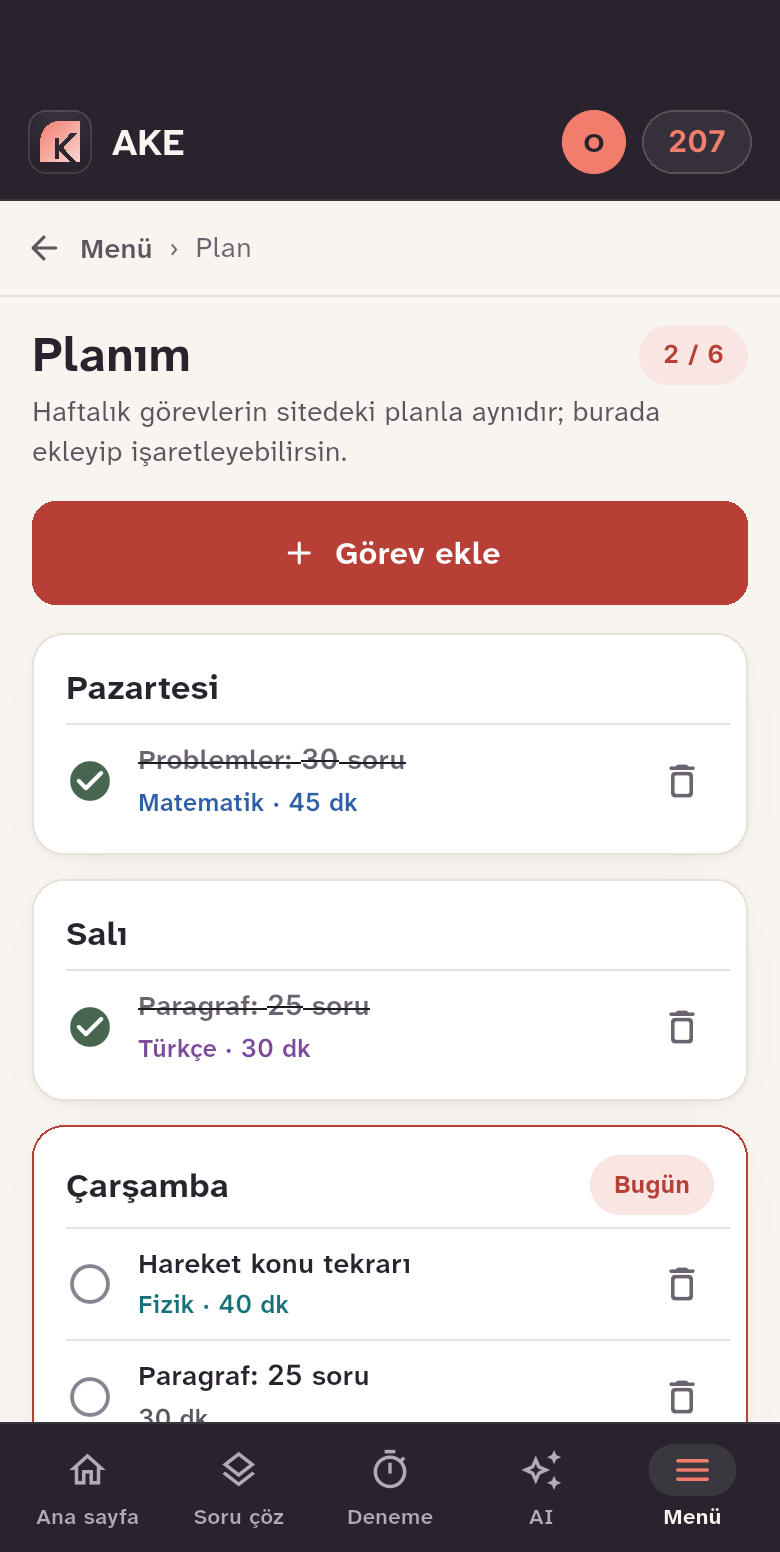
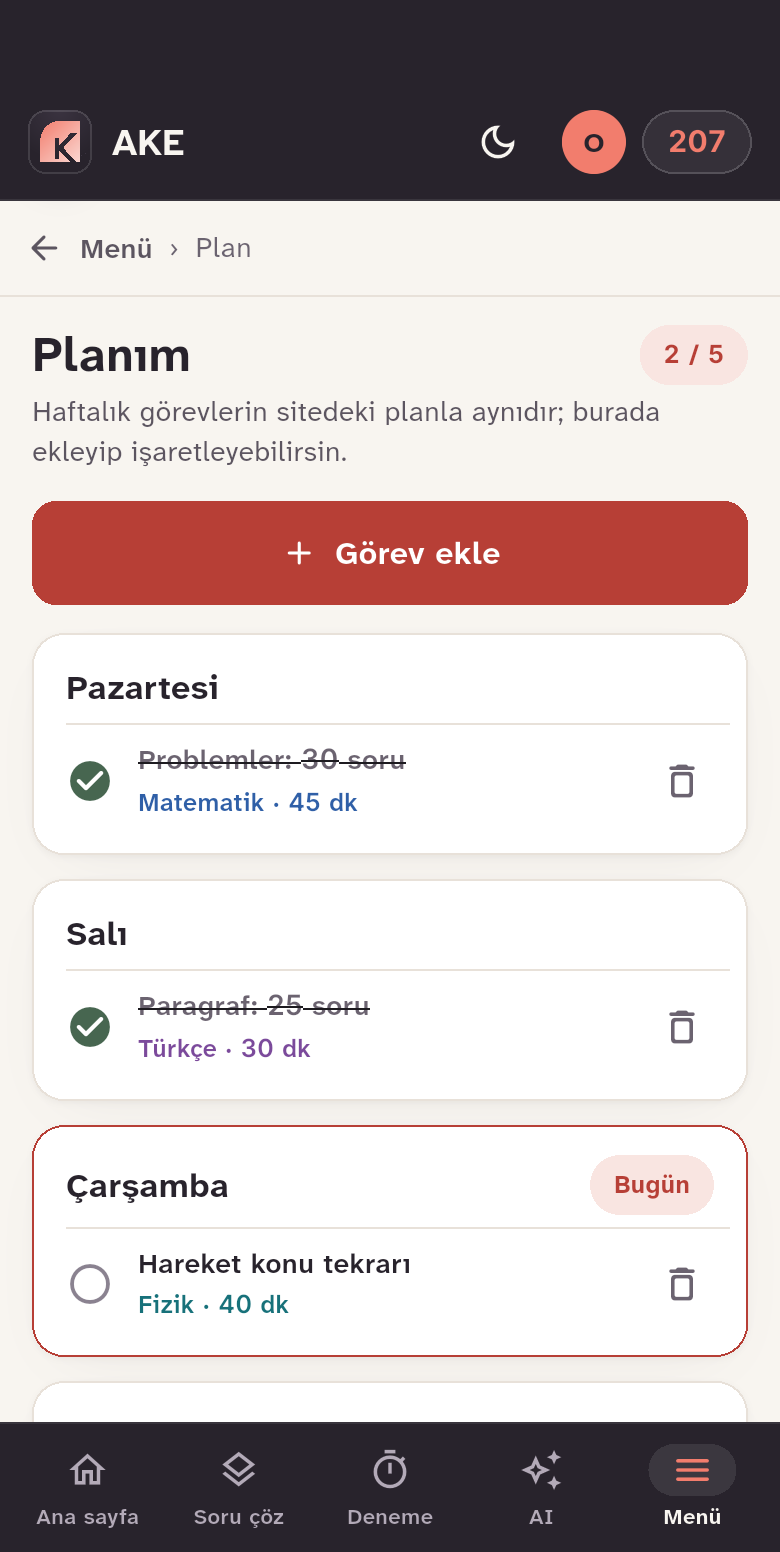
Belgeler: aynı veriyle site/uygulama yan yana görüntüleri, iOS simülatör görüntüleri, açılış ölçümü, Deneme geçmişi notları
Claude-Session: https://claude.ai/code/session_01SDc7dc6b3oPevZA4Myd5sC

Changed region(s): [[0.0923, 0.866, 0.9231, 0.9278], [0.6154, 0.0619, 0.6462, 0.1237], [0.0308, 0.866, 0.0615, 0.8969]]

diff --git a/docs/mobil-gorsel-karsilastirma.md b/docs/mobil-gorsel-karsilastirma.md
@@ -1,40 +1,63 @@
 # Mobil uygulama – görsel karşılaştırma (güncel)
 
-**Hepsi gerçek Android emülatör görüntüsüdür** (Pixel benzeri sdk_gphone64, Android 14, 390 dp; CI'da `flutter drive`). Veri **TEST VERİSİ**: sahte sunucu, gerçek hesap/AI/Production yok. Kanıt dalı: `kanit/pr43-f115713` (320 dp görüntüleri, açılış kayıtları ve ölçüm kayıtları orada).
+Veri **TEST VERİSİDİR**: gerçek hesap, gerçek AI ve Production yok. Android görüntüleri **Android emülatörü** (sdk_gphone64, Android 14, 390 dp; CI'da `flutter drive`), iOS görüntüleri **iOS simülatörü** (iPhone 17 Pro, 402 pt; macOS CI) görüntüsüdür. Gerçek telefon görüntüsü değildir.
+Kanıt dalları: `kanit/pr43-2061b80` (Android: 320/390 dp görüntüleri, açılış kayıtları, ölçüm), `kanit/pr43-ios-2061b80` (iOS simülatör).
 
-## Uygulama ekranları (açık | koyu)
-| Ekran | Açık | Koyu |
-|---|---|---|
-| Ana sayfa | ![](mobil-gorsel/uygulama/10-ana-acik.png) | ![](mobil-gorsel/uygulama/10-ana-koyu.png) |
-| Soru çöz · sınav seçimi | ![](mobil-gorsel/uygulama/20-soru-sec-sinav-acik.png) | ![](mobil-gorsel/uygulama/20-soru-sec-sinav-koyu.png) |
-| Soru çöz · Soru ara | ![](mobil-gorsel/uygulama/41-soru-ara-acik.png) | ![](mobil-gorsel/uygulama/41-soru-ara-koyu.png) |
-| Deneme · başlangıç | ![](mobil-gorsel/uygulama/45-deneme-baslangic-acik.png) | ![](mobil-gorsel/uygulama/45-deneme-baslangic-koyu.png) |
-| Deneme · soru (süre çalışıyor) | ![](mobil-gorsel/uygulama/46-deneme-soru-acik.png) | ![](mobil-gorsel/uygulama/46-deneme-soru-koyu.png) |
-| Deneme · sonuç (net + çözümler) | ![](mobil-gorsel/uygulama/47-deneme-sonuc-acik.png) | ![](mobil-gorsel/uygulama/47-deneme-sonuc-koyu.png) |
-| AI · paket kodu kapısı | ![](mobil-gorsel/uygulama/50-ai-kapi-acik.png) | — (aynı oturumda kod zaten bağlıydı) |
-| AI · sohbet (sahte yanıt) | ![](mobil-gorsel/uygulama/51-ai-sohbet-acik.png) | ![](mobil-gorsel/uygulama/51-ai-sohbet-koyu.png) |
-| Menü | ![](mobil-gorsel/uygulama/60-menu-acik.png) | ![](mobil-gorsel/uygulama/60-menu-koyu.png) |
-| Gelişim | ![](mobil-gorsel/uygulama/61-gelisim-acik.png) | ![](mobil-gorsel/uygulama/61-gelisim-koyu.png) |
-| Plan · görev ekle | ![](mobil-gorsel/uygulama/62-plan-gorev-ekle-acik.png) | ![](mobil-gorsel/uygulama/62-plan-gorev-ekle-koyu.png) |
-| Plan · görevli | ![](mobil-gorsel/uygulama/63-plan-gorevli-acik.png) | ![](mobil-gorsel/uygulama/63-plan-gorevli-koyu.png) |
-| Ayarlar | ![](mobil-gorsel/uygulama/70-ayarlar-acik.png) | ![](mobil-gorsel/uygulama/70-ayarlar-koyu.png) |
-| Ayarlar · hesap silme onayı | ![](mobil-gorsel/uygulama/71-hesap-sil-onay-acik.png) | ![](mobil-gorsel/uygulama/71-hesap-sil-onay-koyu.png) |
+## 1) Site ile uygulama — aynı kullanıcı verisi, aynı ekran durumu, 390
+Sol: **site** (`index.html`, yerel Chrome 390 px, `/api/*` aynı sahte kullanıcı verisiyle yanıtlanır: `mobile/tool/site_goruntu.py`). Sağ: **uygulama** (Android emülatörü 390 dp, sahte sunucu aynı veri: `mobile/integration_test/ekranlar_test.dart`). Birleştirme: `mobile/tool/yan_yana.py`.
 
-## Site ile karşılaştırma — dürüst durum
-- **Aynı veri + aynı ekran durumuyla site görüntüsü bu turda ÜRETİLEMEDİ.** Eski site referansları (`mobil-gorsel/ana.png`, `soru-merkezi.png`, `konu.png`, `gelisim.png`, `plan.png`, `ayarlar.png`) sitenin kendi sahte-API'li yerel çizimidir; verileri uygulamadaki test verisiyle **aynı değil** (ör. site Gelişim referansı boş durumdur). Bu yüzden onları "aynı görsel" diye yan yana koymadım; yalnız başvuru olarak duruyorlar.
-- Eski yan yana tablo kaldırıldı; "Aynı görsel" yer tutucuları yok.
-- Site tarafı için gereken: sitenin veri katmanına aynı sahte kullanıcı verisi verilip 390 px'te aynı ekranların alınması. Bu ayrı bir iş olarak **açık**.
+Ortak test verisi: ad "Test Öğrencisi", alan SAY, hedef 40, sınav 2027‑06‑19; son 7 gün 32/45/0/28/51/38/24 soru (21/33/0/19/40/27/15 doğru); konu başarıları (Sayılar, Problemler, Paragraf, Hareket); 5 plan görevi (2 tamam); paket premium.
 
-## Bilinen görsel/işlev farkları (siteye göre)
+| Ekran | Yan yana (site | uygulama) |
+|---|---|
+| Ana sayfa | ![](mobil-gorsel/yan-yana/10-ana-yan-yana.png) |
+| Soru Merkezi | ![](mobil-gorsel/yan-yana/20-soru-merkezi-yan-yana.png) |
+| Deneme (başlangıç) | ![](mobil-gorsel/yan-yana/45-deneme-yan-yana.png) |
+| AI (henüz mesaj yok) | ![](mobil-gorsel/yan-yana/51-ai-yan-yana.png) |
+| Plan | ![](mobil-gorsel/yan-yana/63-plan-yan-yana.png) |
+| Gelişim | ![](mobil-gorsel/yan-yana/61-gelisim-yan-yana.png) |
+
+Ham site görüntüleri: `mobil-gorsel/site/`. Ham uygulama görüntüleri (açık/koyu): `mobil-gorsel/uygulama/`.
+
+### Bu turda bulunup düzeltilen farklar
+- **Veri biçimi uyuşmazlığı (işlev hatası):** site `profile` ve `plan` belgelerini iç içe saklar (`{_u, plan:{tasks}}`); uygulama düz okuyup yazıyordu. Sitede girilen plan uygulamada görünmez, uygulamadan yazılan site tarafından okunmazdı. Uygulama artık sitenin biçimini okur/yazar (testli; düz belge profil/plan sayılmaz).
+- **Gelişim rakamları:** site "çözülen soru/doğruluk"u günlük sayaçlardan hesaplar, uygulama konulardan hesaplıyordu (146 ↔ 218). Uygulama da günlükten hesaplıyor; görüntüde 218 / %71 / bugün 24 birebir aynı.
+- **AI:** boş sohbet açıklaması, sitedeki 6 başlangıç sorusu (kompakt hap düğmeler; önce tam genişlikte kutulardı) ve kota notu eklendi.
+- **Deneme:** başlangıçta "Bu denemede" özeti (ders, soru, süre, net kuralı) ve **Son denemelerin** listesi (web + mobil `exams`); "Gelişim'e yazılmaz" notu kaldırıldı çünkü artık yazılıyor.
+- **Üst çubuk:** sitedeki gibi tema düğmesi; **Ana sayfa** selamı sitedeki gibi tam ad.
+- **Plan** görüntüsü sitede olduğu gibi yalnız 5 test görevi varken alınır (görev ekleme ayrı görüntü: `64-plan-gorev-eklendi`).
+
+### Kalan, bilinçli farklar (siteye göre)
 | Alan | Fark |
 |---|---|
-| Alt menü | Site ile aynı: Ana sayfa · Soru çöz · Deneme · AI · Menü. Gelişim/Plan/Ayarlar Menü içinde. |
-| Soru çöz sekmeleri | Konular, Soru ara, Paragraf var. **"ÖSYM tarzı" ve "AI ile üret" yok** (sunucuda karşılığı yok; düğme konmadı). |
-| Deneme | Süreli, ders+soru sayısı seçmeli. **Bölümlü tam TYT/AYT ve canlı deneme yok.** Sonuç Gelişim geçmişine yazılmaz. |
-| Plan | Görev ekle/işaretle/sil/haftayı sıfırla var. **Odak odası yok.** |
+| Düzen | Uygulama mobil sekme düzenidir; piksel kopyası değil. Plan haftalık gün listesidir (sitede "Bugün" + Odak odası). |
+| Deneme | Sitedeki **Oturum (TYT/AYT…) seçimi ve bölüm tablosu yok**: sunucu API'si yalnız ders ve soru sayısı destekler. Bölümlü tam TYT/AYT ve canlı deneme yok. |
+| Soru Merkezi | Sitedeki "ÖSYM tarzı" ve "AI ile üret" sekmeleri yok (sunucuda karşılığı yok; düğme konmadı). |
+| AI | Fotoğraf ekleme ve sesli mod yok. Soru metinleri: sitede kendi statik soru bankası; uygulamada sahte sunucunun 2 örnek sorusu (kullanıcı verisi aynı, soru içeriği aynı değil). |
+| Plan | **Odak odası yok.** |
 | Simgeler | Material simgeleri; sitenin özel simge seti taşınmadı. K amblemi, renkler ve yazı tipi siteyle aynı kaynaktan. |
-| Durum çubuğu | Emülatör görüntülerinde üst şerit boş görünür (sistem durum çubuğu yakalanmıyor). |
+| Durum çubuğu | Emülatör görüntülerinde sistem durum çubuğu yakalanmıyor (üst şerit boş). |
 
-## Açılış animasyonu
-- Tasarım süresi 2,2 sn + 0,25 sn sönme = 2,45 sn (birim testi ≤2,5 sn doğrular). Son kare gerçek K amblemi; "Geç" ilk kareden var; ikinci açılışta oynamaz; "hareketi azalt" açıkken 0 ms.
-- **CI emülatöründe ölçülen gerçek süre 3,2–3,6 sn** (320 dp: 3219 ms, 390 dp: 3569 ms); yazılım GPU'su yüzünden kareler 400–1100 ms. **2,5 sn hedefi emülatörde tutmadı; telefonda akıcılık kanıtlanmadı.**
+## 2) Uygulama ekranları (Android emülatörü, 390 dp)
+Tüm açık/koyu görüntüler `mobil-gorsel/uygulama/` içindedir (giriş → ana → Soru çöz → soru → Soru ara → Deneme → AI → Menü → Gelişim → Plan → Ayarlar → hesap silme onayı).
+
+## 3) iOS simülatörü (iPhone 17 Pro, 402 pt) — çalıştırıldı
+Aynı ekran yürüyüşü (giriş, alt gezinme, ana, Soru çöz, soru çözme, Deneme, AI, Gelişim, Plan, Ayarlar, hesap silme onayı) macOS CI'da simülatörde `flutter drive` ile çalıştı ve geçti (yalnız derleme değil). Açık tema görüntüleri: `mobil-gorsel/ios/`. Örnekler:
+
+| Giriş | Ana | Soru okuma | Deneme sonuç | AI | Gelişim |
+|---|---|---|---|---|---|
+| ![](mobil-gorsel/ios/01-giris-acik.png) | ![](mobil-gorsel/ios/10-ana-acik.png) | ![](mobil-gorsel/ios/30-soru-okuma-acik.png) | ![](mobil-gorsel/ios/47-deneme-sonuc-acik.png) | ![](mobil-gorsel/ios/50b-ai-bos-acik.png) | ![](mobil-gorsel/ios/61-gelisim-acik.png) |
+
+Sınırlar: simülatördür (gerçek iPhone değil); veri sahte sunucudur; imzasız derleme, TestFlight/mağaza yok; iOS'ta açılış süresi ölçülmedi.
+
+## 4) Açılış animasyonu
+- Tasarım süresi **2,45 sn → 2,15 sn** (1,9 sn animasyon + 0,25 sn sönme; birim testi ≤2,5 sn). Son kare gerçek K amblemi; "Geç" ilk kareden itibaren var; ikinci açılışta oynamaz; "hareketi azalt" açıkken 0 ms (CI'da doğrulandı: `neden=hareket_azalt sure_ms=0`).
+- Kare başına yeniden üretilen nesneler (başlangıç noktaları, amblem yolu, yazı düzeni, gradyan gölgelendiricileri) önbelleğe alındı.
+- **CI emülatöründe ölçülen gerçek süre (açılış başlangıcından bitişe):**
+
+| Sürüm | 320 dp | 390 dp |
+|---|---|---|
+| Önce (2,45 sn tasarım) | 3354 ms, 15 kare, ort. 385 ms/kare | 3471 ms, 12 kare, ort. 598 ms/kare |
+| Sonra (2,15 sn tasarım) | **2834 ms**, 14 kare, ort. 561 ms/kare | **3180 ms**, 6 kare, ort. 864 ms/kare |
+
+- **Cihaz sınırı:** kare başına ortalama **hazırlama (UI) 1,3–3,6 ms**, **çizim (raster) 282–518 ms**. Yani uygulama kodu kare başına birkaç ms harcıyor; süreyi emülatörün yazılım GPU'su (SwiftShader) uzatıyor: animasyon zamana bağlı olduğundan, çok yavaş bir kare bitişi o karenin süresi kadar geciktirir (0,5–1,4 sn). **2,5 sn hedefi bu emülatörde tutmadı** (2,8–3,2 sn); tasarım süresi tutuyor (2,15 sn). Gerçek telefondaki akıcılık bu ölçümle kanıtlanmış DEĞİLDİR. Koşular arası değişim büyük (paylaşılan CI makinesi): "önce/sonra" farkı kesin kanıt değil, yönü gösterir.

diff --git a/mobile/README.md b/mobile/README.md
@@ -50,7 +50,7 @@ macOS/Linux: `./kur.sh` aynı işi yapar.
 
 ## Bilinen sınırlar (bu sürüm)
 - **Web ile eşzamanlı yazma:** yeni web sürümü cevapları yerelde kalıcı olay olarak da tutar; senkronda uzak belgeyi okur, eksik olayları üstüne uygular ve sunucuya koşullu (`_b`) yazar. Çevrimdışı/gönderilmemiş cevaplar ve eskimiş sekmeler mobil ilerlemesini ezmez, mobil de web'inkini ezmez; yanıt kaybolsa çift sayım olmaz (testler: `tests/web-stats-senkron.test.mjs`, ayrıca Preview D1'de doğrulandı). **Kalan sınırlar:** (1) bu değişiklikten önceki, önbellekteki ESKİ web sürümü koşulsuz yazmaya devam eder; yeni web yayınlanıp sekme yenilenince kapanır. (2) Bir cihaz yeni sürümle ilk kez senkron olurken, eski sürümden kalan gönderilmemiş yerel sayaçlar uzak sayaçlarla "büyüğünü koru" kuralıyla birleşir (tek seferlik, en kötü durumda küçük taraftaki artış kaybolabilir). (3) `ans/para/rozet` dışındaki web alanları (sınavlar, yanlışlar defteri vb.) eskisi gibi son-yazan-kazanır.
-- Mobilde yok: bölümlü tam TYT/AYT ve canlı deneme, Deneme sonucunun Gelişim geçmişine yazılması, ÖSYM tarzı / AI ile üret sekmeleri, odak odası, bildirimler, arkadaş ligi, Sınıfım, paketler/ödeme (ayrıntı: `docs/mobil-ozellik-haritasi.md`). Bunlar uygulamada sahte düğmeyle değil, ana sayfada "Sitede var, mobilde henüz yok" notuyla gösterilir.
+- Mobilde yok: bölümlü tam TYT/AYT ve canlı deneme, ÖSYM tarzı / AI ile üret sekmeleri, odak odası, bildirimler, arkadaş ligi, Sınıfım, paketler/ödeme (ayrıntı: `docs/mobil-ozellik-haritasi.md`). Bunlar uygulamada sahte düğmeyle değil, ana sayfada "Sitede var, mobilde henüz yok" notuyla gösterilir.
 - Deneme, AI öğretmen, Plan düzenleme, profil ve hesap silme sahte sunucuyla (testlerde) ve emülatörde doğrulandı; **gerçek (Preview/Production) hesapla, gerçek AI çağrısıyla ve gerçek hesap silmeyle denenmedi.**
 - Simgeler Material simgeleridir; sitenin özel simge seti uygulamaya taşınmadı.
 - Google ile giriş yok (yalnız e-posta kodu).

diff --git a/docs/mobil-ozellik-haritasi.md b/docs/mobil-ozellik-haritasi.md
@@ -18,7 +18,7 @@ Mobil altyapı kuralları (değişmedi): Bearer oturum anahtarı, WebView yok, w
 | Soru çöz · "Soru ara" sekmesi | Soru çöz → Soru ara | **Gerçek** | `oturum` isteğine `ara` (en çok 80 karakter, sunucuda LIKE ile; bu turda sunucuya eklendi, testli, Production'a dağıtılmadı) |
 | Soru çöz · "Paragraf" sekmesi | Soru çöz → Paragraf | **Gerçek** | Türkçe/Paragraf konusuyla oturum |
 | Soru çöz · "ÖSYM tarzı", "AI ile üret" sekmeleri | — | **Yok** | Sunucuda karşılığı yok (soru bankasında ÖSYM etiketi / üretim ucu yok); düğme konmadı |
-| Deneme (süreli, ders ve soru sayısı seçmeli) | Deneme sekmesi | **Gerçek (kısmi)** | `oturum` `mod: exam`; cevap anahtarı bitene kadar gelmez; net = doğru − yanlış/4. Ücretsiz hesapta aylık deneme hakkı sunucuda. **Yok:** bölümlü tam TYT/AYT denemesi, canlı deneme; sonuç Gelişim geçmişine yazılmaz (sunucu sınav modunu istatistiğe işlemez) |
+| Deneme (süreli, ders ve soru sayısı seçmeli) | Deneme sekmesi | **Gerçek (kısmi)** | `oturum` `mod: exam`; cevap anahtarı bitene kadar gelmez; net = doğru − yanlış/4. Ücretsiz hesapta aylık deneme hakkı sunucuda. **Yok:** bölümlü tam TYT/AYT denemesi, canlı deneme, Oturum seçimi/bölüm tablosu. Biten deneme sonucu Gelişim'e (`stats` + `exams`) yazılır ve "Geçmiş denemeler"de görünür (sentetik hesapla Preview'da doğrulandı) |
 | AI öğretmen | AI sekmesi | **Gerçek (sahte yanıtla test edildi)** | `POST /api/ai` (Bearer, paket kodu gerekir, aylık kota sunucuda). Kod bağlama: `POST /api/hesap/kod-bagla`. Testler sahte sunucuyla; **gerçek AI çağrısı yapılmadı** |
 | Planım | Menü → Plan | **Gerçek** | Görev ekle/düzenle/işaretle/sil, haftayı sıfırla; `plan` belgesi koşullu yazma (`_b`/`_h`), 409'da yeniden okuyup dener; bilinmeyen alanlar korunur |
 | Gelişimim | Menü → Gelişim | **Salt okunur** | Günlük çözülen/doğru, konu başarısı; site rozet/seri/grafik ayrıntıları yok |
